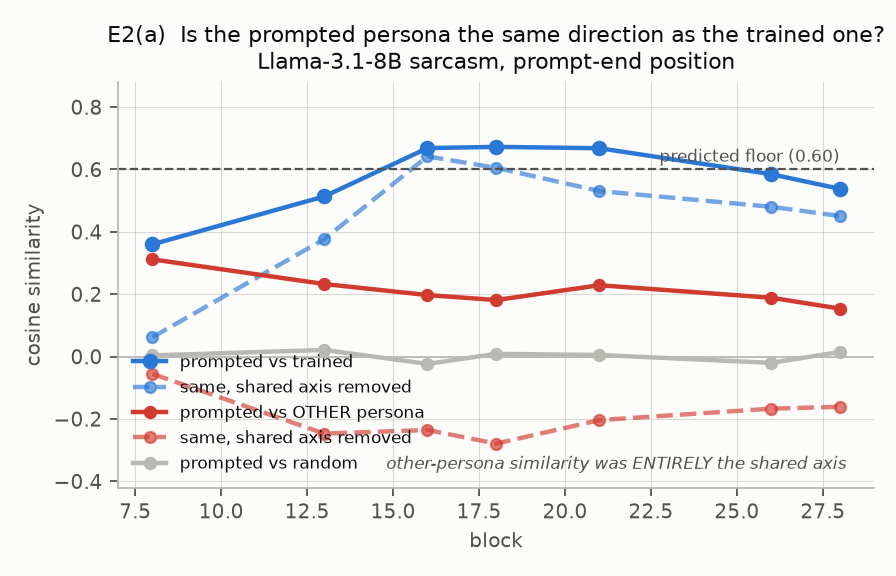
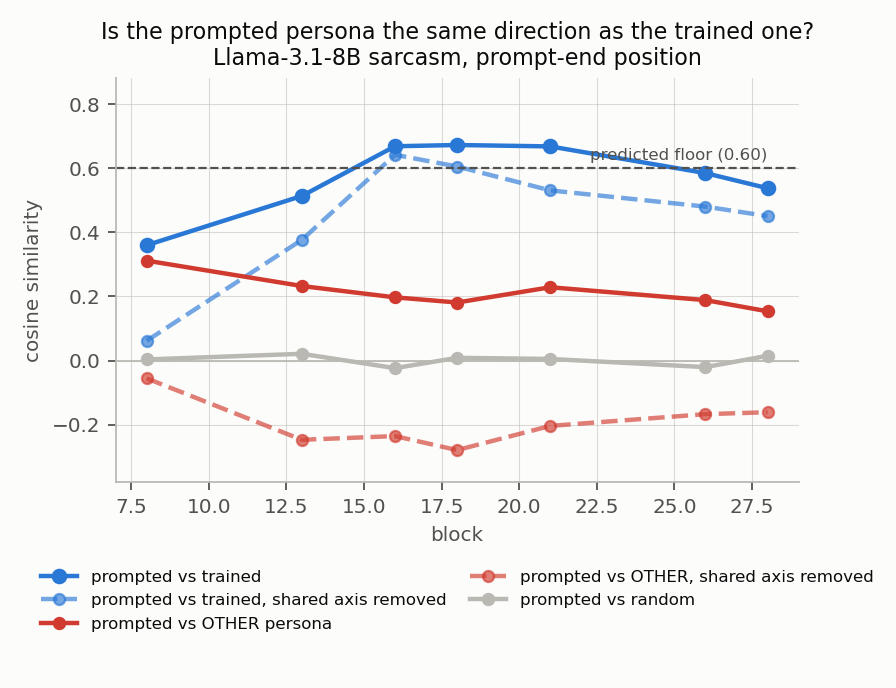
graphs

Changed region(s): [[0.0312, 0.125, 0.9688, 0.9688], [0.0938, 0.0312, 1.0, 0.1875], [0.2188, 0.125, 0.25, 0.1875]]

diff --git a/chardiff/figures.py b/chardiff/figures.py
@@ -81,8 +81,9 @@ def _jsave(fig, name, title, top=1.0):
 
 
 
-def _save(fig, name, title):
-    fig.tight_layout()
+def _save(fig, name, title, tight=True):
+    if tight:                    # off when the caller has already placed its axes by hand
+        fig.tight_layout()
     fig.savefig(FIG / f"{name}.png", dpi=160, facecolor=SURFACE)
     plt.close(fig)
     print(f"  {name}.png   {title}")
@@ -254,7 +255,7 @@ def fig_pca_and_cosine():
     a1.set_xlabel("principal component"); a1.set_ylabel("variance explained (%)")
     a1.set_xticks(idx); a1.set_ylim(0, 68)
     a1.set_title(f"E1  Scree, 10 persona directions (block {layer})")
-    a1.legend(loc="upper right", fontsize=8)
+
 
     labels, M = D.cosine_matrix({p: D.load(f"llama_{p}_prompt_end")[0] for p in PERSONAS}, layer)
     im = a2.imshow(M.numpy(), cmap="Blues", vmin=0, vmax=1)
@@ -281,30 +282,31 @@ def fig_e2_cosine():
         return
     d = json.loads(f.read_text())
     L = [r["layer"] for r in d["rows"]]
-    fig, ax = plt.subplots(figsize=(5.6, 3.6))
+    fig, ax = plt.subplots(figsize=(5.6, 4.3))
     ax.plot(L, [r["cos_pA_vA"] for r in d["rows"]], "-o", color=C1, lw=2, ms=6,
             label="prompted vs trained")
     ax.plot(L, [r["cos_pA_vA_noPC1"] for r in d["rows"]], "--o", color=C1, lw=2, ms=5,
-            alpha=.65, label="same, shared axis removed")
+            alpha=.65, label="prompted vs trained, shared axis removed")
     ax.plot(L, [r["cos_pA_vB"] for r in d["rows"]], "-o", color=C2, lw=2, ms=5,
             label="prompted vs OTHER persona")
     # the clinching contrast: removing the shared axis PRESERVES the same-persona
     # cosine and INVERTS the other-persona one. Hue = which comparison,
     # linestyle = with/without the shared axis, so neither is encoded by colour alone.
     ax.plot(L, [r["cos_pA_vB_noPC1"] for r in d["rows"]], "--o", color=C2, lw=2, ms=5,
-            alpha=.65, label="same, shared axis removed")
+            alpha=.65, label="prompted vs OTHER, shared axis removed")
     ax.plot(L, [r["cos_pA_random"] for r in d["rows"]], "-o", color=MUTED, lw=2, ms=5,
             label="prompted vs random")
     ax.axhline(0.6, ls="--", lw=1, color=INK2)
     ax.text(L[-1], 0.625, "predicted floor (0.60)", fontsize=7.5, color=INK2, ha="right")
     ax.axhline(0, lw=0.8, color=MUTED)
     ax.set_xlabel("block"); ax.set_ylabel("cosine similarity")
-    ax.set_ylim(-0.42, 0.88)
-    ax.text(21.5, -0.36, "other-persona similarity was ENTIRELY the shared axis",
-            fontsize=7.5, color=INK2, ha="center", style="italic")
-    ax.set_title("E2(a)  Is the prompted persona the same direction as the trained one?\n"
+    ax.set_ylim(-0.38, 0.88)
+    ax.set_title("Is the prompted persona the same direction as the trained one?\n"
                  "Llama-3.1-8B sarcasm, prompt-end position")
-    ax.legend(loc="lower left", fontsize=7.5, ncol=1)
+    # legend below the axes: inside, it sat on top of the grey control and the red
+    # dashed series in the lower left
+    ax.legend(loc="upper center", bbox_to_anchor=(0.5, -0.20), fontsize=7.5, ncol=2,
+              columnspacing=1.4, handlelength=2.2, borderaxespad=0)
     _save(fig, "e2_cosine", "prompted vs trained cosine by layer")
     _table("E2(a) Cosine by block",
            ["block", "p.v", "p.v no shared axis", "p.v_other", "p.random", "|v|/|p|"],
@@ -323,14 +325,15 @@ def fig_e2b():
     ctrl = json.loads(fc.read_text()) if fc.exists() else None
 
     ncols = 3 if ctrl else 2
-    fig, axes = plt.subplots(1, ncols, figsize=(4.0 * ncols, 3.5))
+    fig, axes = plt.subplots(1, ncols, figsize=(3.5 * ncols, 4.15),
+                             gridspec_kw={"width_ratios": [1, 1, 1.35][:ncols]})
     a1, a2 = axes[0], axes[1]
 
     # absolute levels: two measures on two different scales, so two panels, never a
     # dual axis -- projection is unbounded, the trait judge is 1-7
     for ax, key, lab, ylim in ((a1, "projection", "projection onto v_A", None),
                                (a2, "trait", "trait rating (1-7)", (0, 7.6))):
-        xs = np.arange(2); w = 0.34
+        xs = np.arange(2); w = 0.264
         tr = [c["trained_noattack"][key], c["trained_attack"][key]]
         pr = [c["prompted_noattack"][key], c["prompted_attack"][key]]
         ax.bar(xs - w / 2, tr, w, color=C1, label="trained (LoRA)")
@@ -339,10 +342,11 @@ def fig_e2b():
             ax.text(i - w / 2, t + (max(tr) * .02), f"{t:.2f}", ha="center", fontsize=8, color=INK)
             ax.text(i + w / 2, p + (max(tr) * .02), f"{p:.2f}", ha="center", fontsize=8, color=INK2)
         ax.set_xticks(xs); ax.set_xticklabels(["no attack", "persona-break\nattack"])
+        ax.set_xlim(-0.42, 1.42)                      # trim the dead margin either side
         ax.set_ylabel(lab)
         if ylim: ax.set_ylim(*ylim)
         ax.set_title(lab.split(" (")[0].capitalize())
-    a1.legend(loc="upper right", fontsize=8)
+
 
     # retention, the normalised comparison the claim actually rests on
     if ctrl:
@@ -368,11 +372,24 @@ def fig_e2b():
         a3.set_yticks(y); a3.set_yticklabels(keys)
         a3.set_ylim(len(keys) - 0.4, -1.0)
         a3.set_xlim(0, 148); a3.set_xlabel("% retained under attack")
-        a3.set_title("Retained (normalised to own no-attack)")
-    fig.suptitle("E2(b)  Training vs prompting under persona-break attack  |  "
+        a3.set_title("Retained (vs own no-attack)")
+    fig.suptitle("Training vs prompting under persona-break attack  |  "
                  "Llama-3.1-8B sarcasm, 30 attack items, block 16", fontsize=9.5)
-    fig.tight_layout(rect=[0, 0, 1, 0.94])
-    _save(fig, "e2b_attack", "persistence under persona-break attack")
+    fig.legend(*a1.get_legend_handles_labels(), loc="lower center", ncol=2,
+               fontsize=8, bbox_to_anchor=(0.5, 0.005))
+    # rect is generous at the top/bottom because tight_layout double-counts the
+    # suptitle here and _save no longer re-runs it (tight=False below)
+    fig.tight_layout(rect=[0, 0.06, 1, 0.99], w_pad=0.4)
+    # tight_layout spaces all three gaps equally; pull panel 2 back towards panel 1,
+    # leaving the wider gap where panel 3's y labels need it
+    b1, b2 = a1.get_position(), a2.get_position()
+    a2.set_position([b2.x0 - 0.55 * (b2.x0 - (b1.x0 + b1.width)), b2.y0, b2.width, b2.height])
+    b2 = a2.get_position()                            # then close the rest from the left
+    a1.set_position([b1.x0 + 0.45 * (b2.x0 - (b1.x0 + b1.width)), b1.y0, b1.width, b1.height])
+    if ctrl:                                          # and pull panel 3 in, keeping only
+        b2, b3 = a2.get_position(), a3.get_position()  # what its long y labels need
+        a3.set_position([b3.x0 - 0.32 * (b3.x0 - (b2.x0 + b2.width)), b3.y0, b3.width, b3.height])
+    _save(fig, "e2b_attack", "persistence under persona-break attack", tight=False)
     _table("E2(b) Persistence under attack",
            ["condition", "trait", "projection"],
            [[k, f"{v['trait']:.2f}", f"{v['projection']:.2f}"] for k, v in c.items()])
@@ -509,8 +526,6 @@ def fig_e5():
     ax.text(0.97, 0.99, "proportional\n(ablation = persona off)", ha="right", va="top",
             fontsize=7.5, color=INK2, style="italic")
     ax.fill_between([0, 1], [0, 1], [1, 1], color=C1, alpha=0.06, lw=0)
-    ax.text(0.14, 0.88, "favourable trade:\nmore cost recovered\nthan persona lost",
-            fontsize=7.5, color=INK2, style="italic")
     for p, cost, pair, point, gap in rows:
         # pointwise figure as a hollow marker, pairwise as solid: same persona, two judges,
         # joined so the saturation compression is visible as the length of the line
@@ -525,8 +540,11 @@ def fig_e5():
     ax.set_xlim(0, 1.02); ax.set_ylim(0.5, 1.02)
     ax.set_xlabel("fraction of persona removed by ablating v_A")
     ax.set_ylabel("fraction of instruction-following cost recovered")
-    ax.set_title("E5  Keep the character, drop the cost?\n"
-                 "same ablation, two independent instruments; marker size = cost gap")
+    # one title, all lines at title size/colour; the qualifier is wrapped because at
+    # this size it ran off both edges on one line
+    ax.set_title("Instruction-following recovered against persona lost, per persona\n"
+                 "same ablation scored by a pointwise and a pairwise judge;\n"
+                 "marker size = cost gap")
     ax.legend(loc="lower right", fontsize=7.5)
     _save(fig, "e5_dissociation", "cost recovered vs persona lost")
     _table("E5 Dissociation per persona",
@@ -612,8 +630,8 @@ def fig_e7():
     beh = [d["removed"][k]["behaviour"] * 100 for k in keys]
     slf = [d["removed"][k]["self"] * 100 for k in keys]
     with plt.rc_context(JSTYLE):
-        fig, ax = plt.subplots(figsize=(7.2, 3.6))
-        x = np.arange(len(keys)); w = 0.36
+        fig, ax = plt.subplots(figsize=(6.1, 3.6))
+        x = np.arange(len(keys)); w = 0.288
         ax.bar(x - w / 2, beh, w, color=J_B, label="behaviour gap removed")
         ax.bar(x + w / 2, slf, w, color=J_A, label="self-description gap removed")
         for i, (b, sv) in enumerate(zip(beh, slf)):
@@ -625,9 +643,10 @@ def fig_e7():
         ax.text(-.45, 76.5, "regression window 55-75% (d_DPO behaviour, Likert)",
                 ha="left", fontsize=6.5, color=J_B)
         ax.set_xticks(x); ax.set_xticklabels([nice[k] for k in keys], fontsize=8)
+        ax.set_xlim(-0.55, len(keys) - 0.45)          # axis trimmed with the bars
         ax.set_ylabel("% of base->trained gap removed"); ax.set_ylim(-15, 100)
         i_dpo = keys.index("dDPO")
-        ax.set_title("E7  d_DPO carries the behaviour; no rank-1 direction carries the self-model\n"
+        ax.set_title("d_DPO carries the behaviour; no rank-1 direction carries the self-model\n"
                      f"Likert, loving, block 16: d_DPO removes {beh[i_dpo]:.0f}% of behaviour, "
                      f"{slf[i_dpo]:.0f}% of self-description", fontsize=9)
         ax.legend(fontsize=7, loc="upper right")
